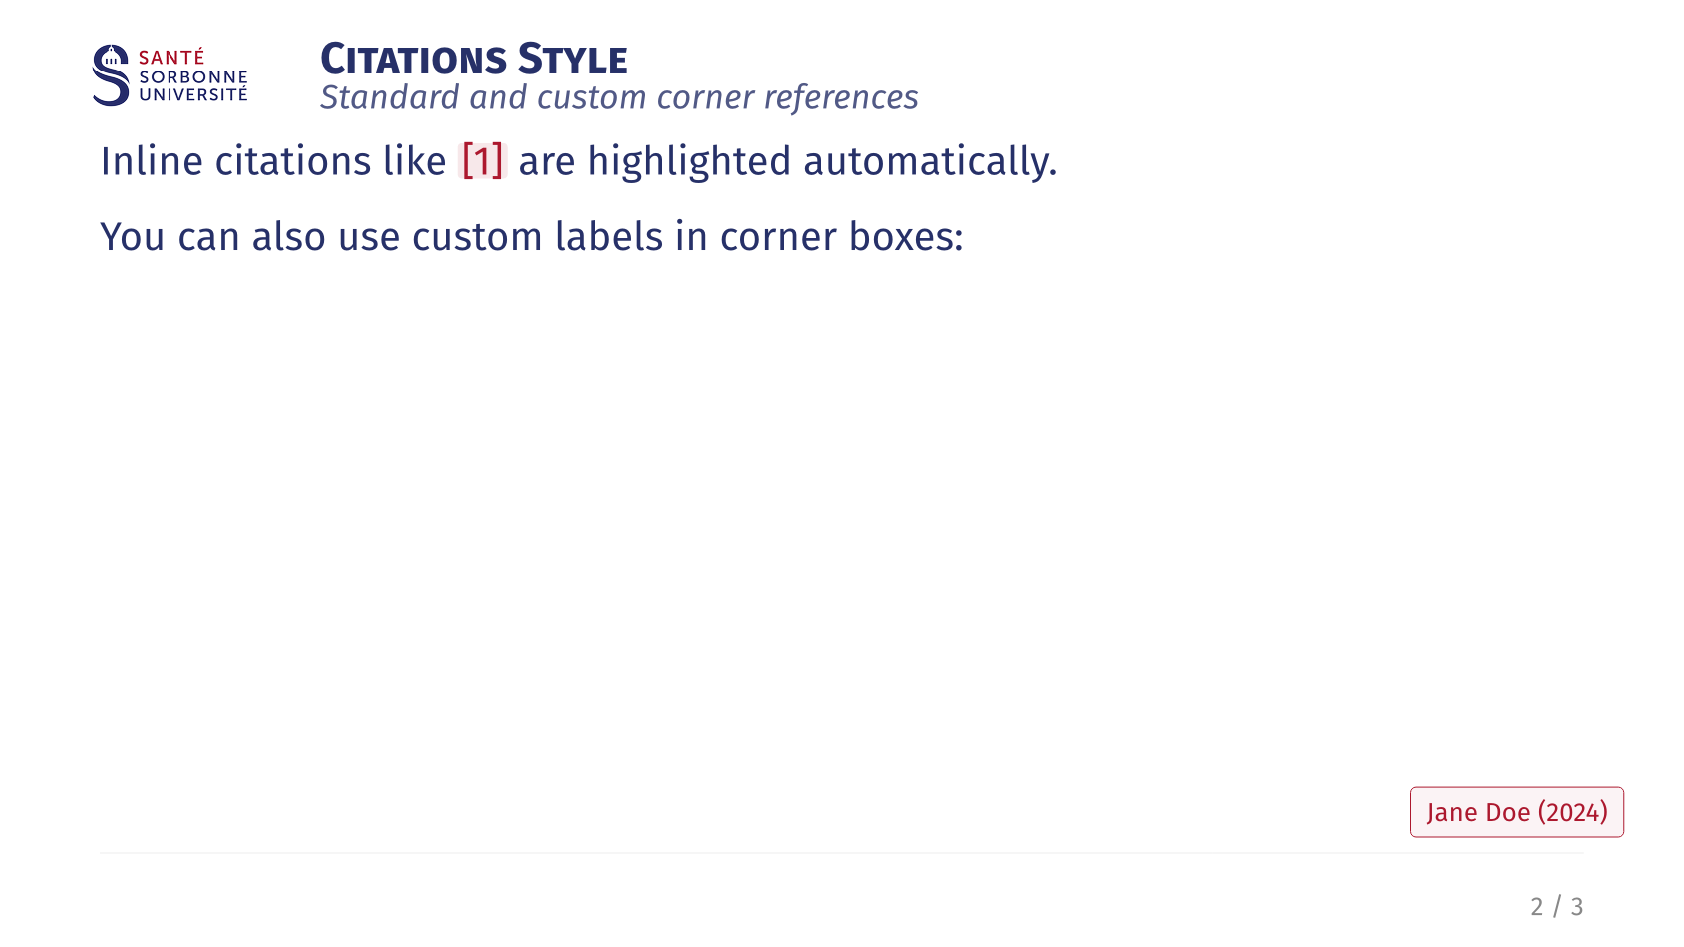
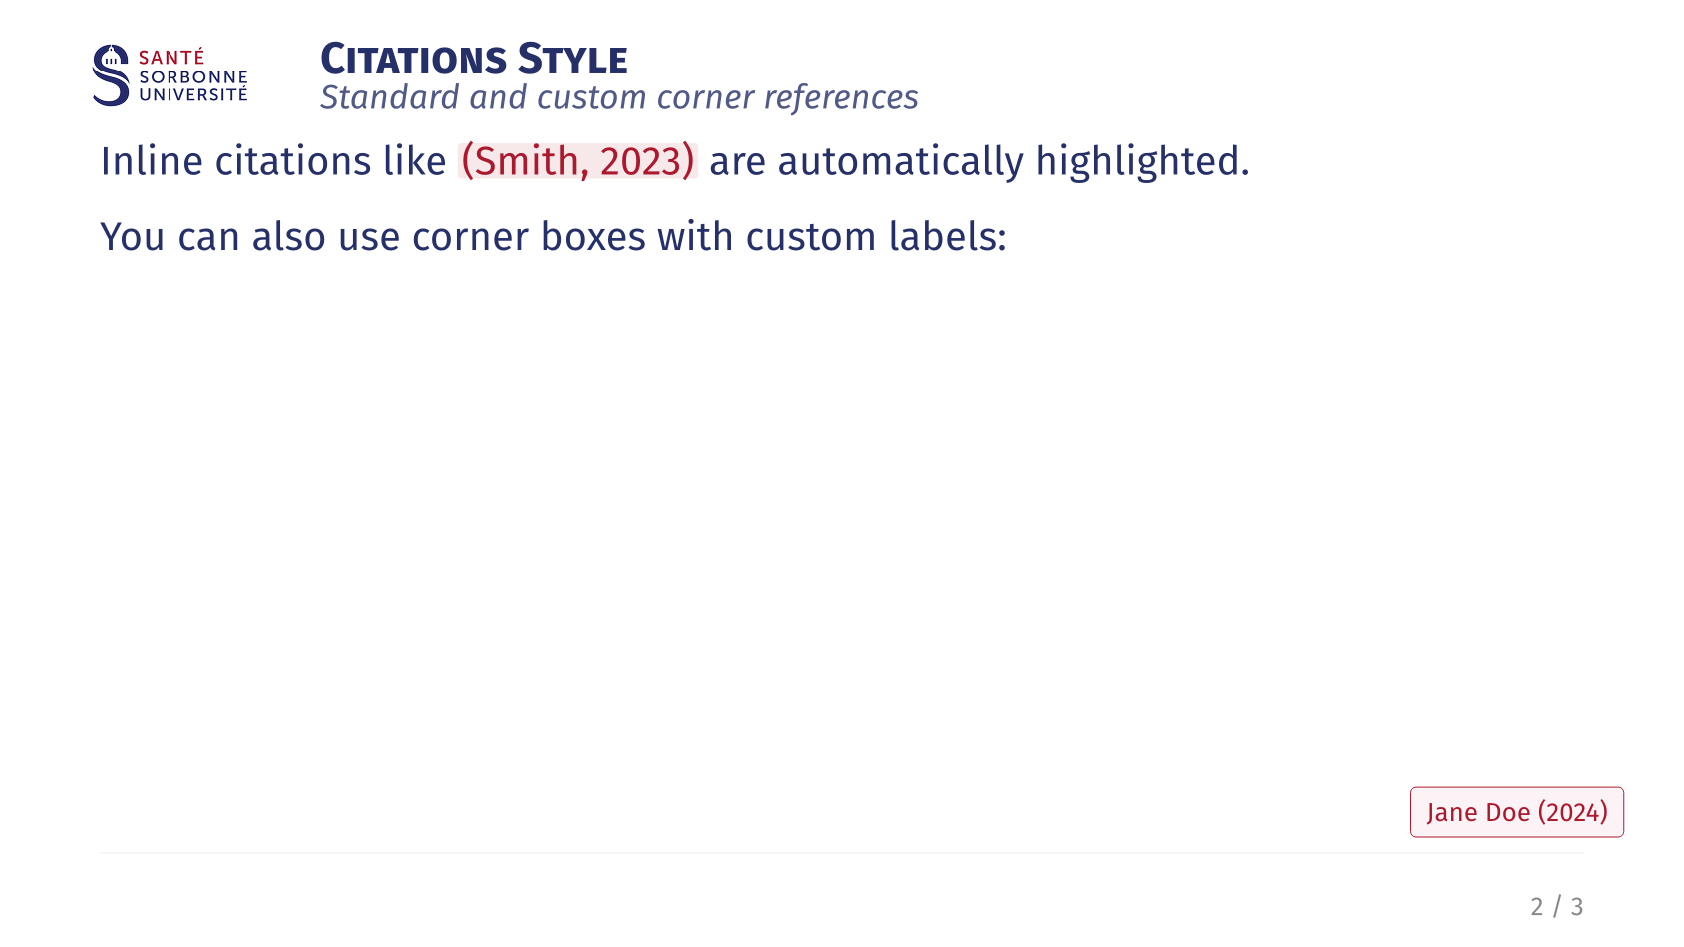
docs(sorbonne): refine citation illustrative image and add cite-box syntax in README

Changed region(s): [[0.247, 0.2144, 0.5867, 0.2756], [0.2779, 0.1531, 0.7411, 0.1837]]

diff --git a/README.md b/README.md
@@ -113,6 +113,7 @@ For a comprehensive visual tour of all components and features, please refer to 
 
 ### Citations & References
 - Corner and inline citations.
+  `#cite-box("smith2023", position: "bottom-right")`
   ![Citations](assets/docs/component-citation.png)
 
 ### Layout & Boxes
